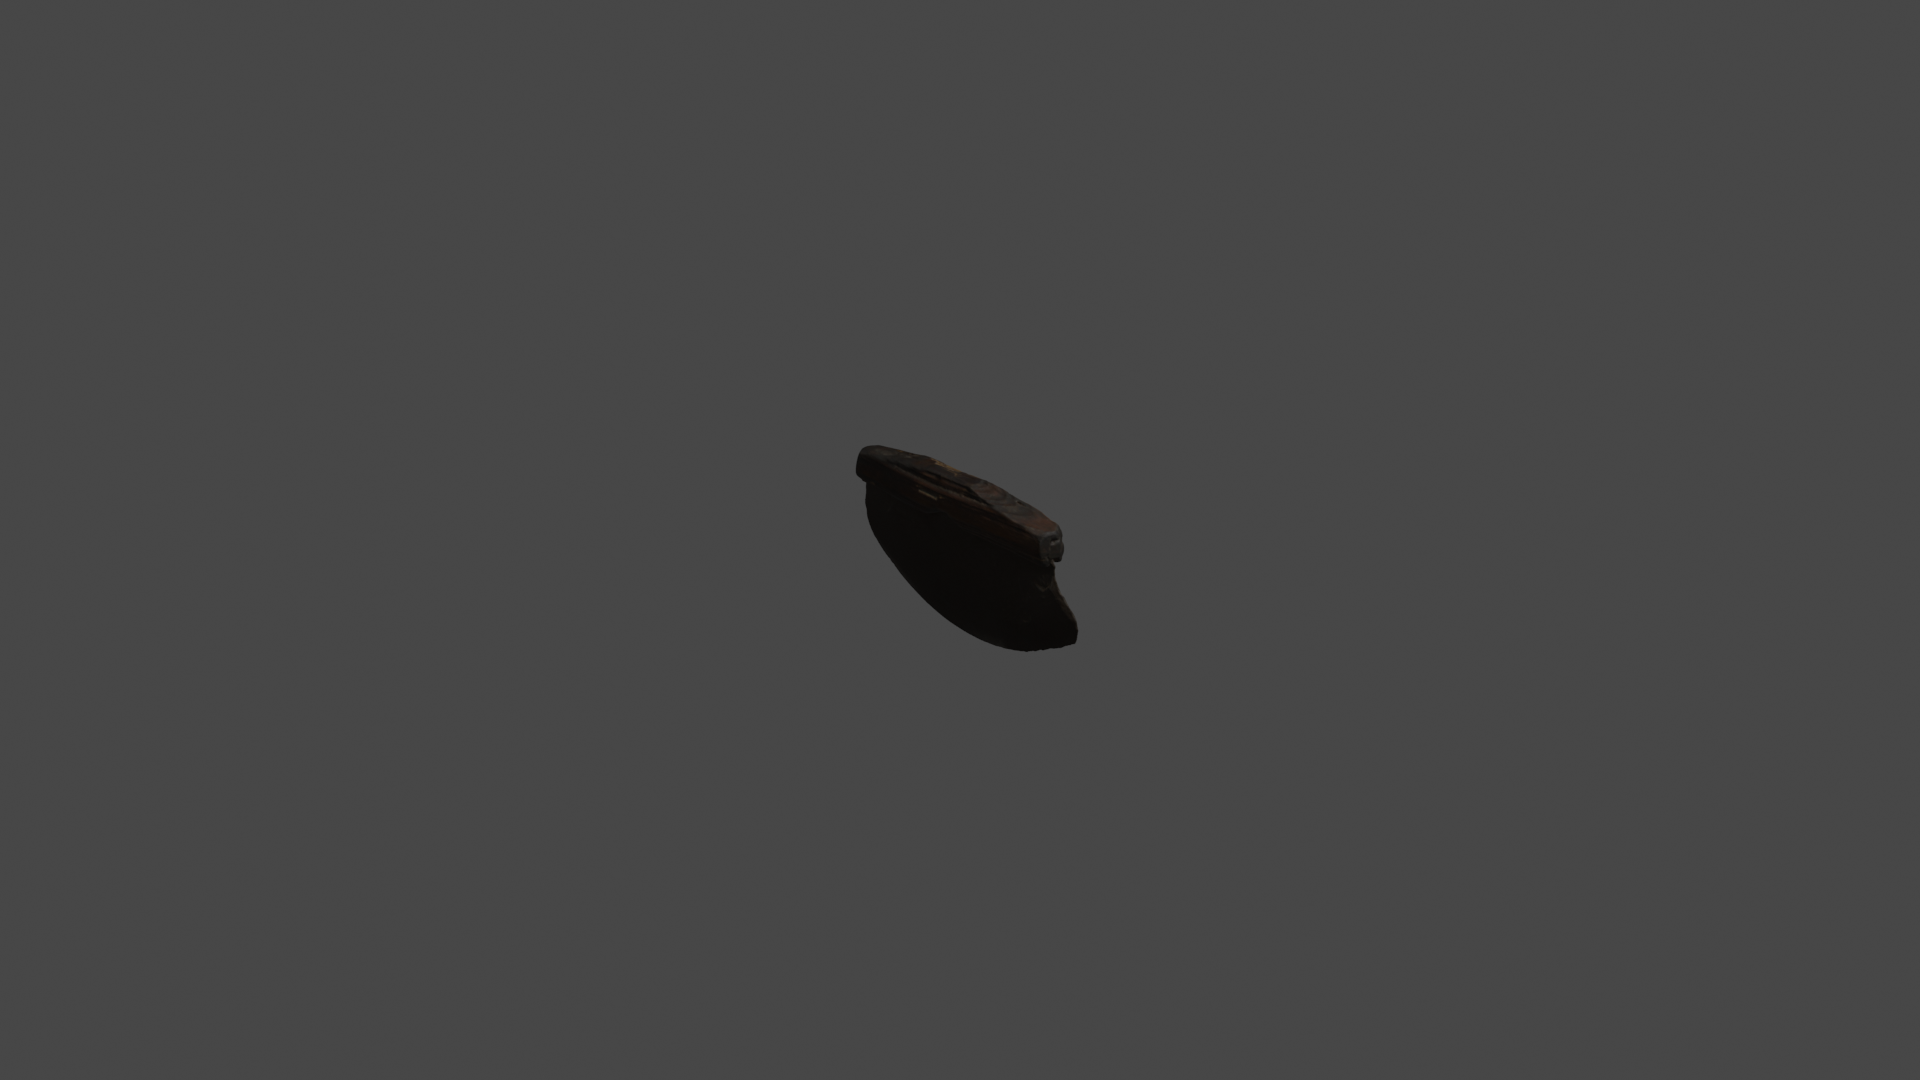
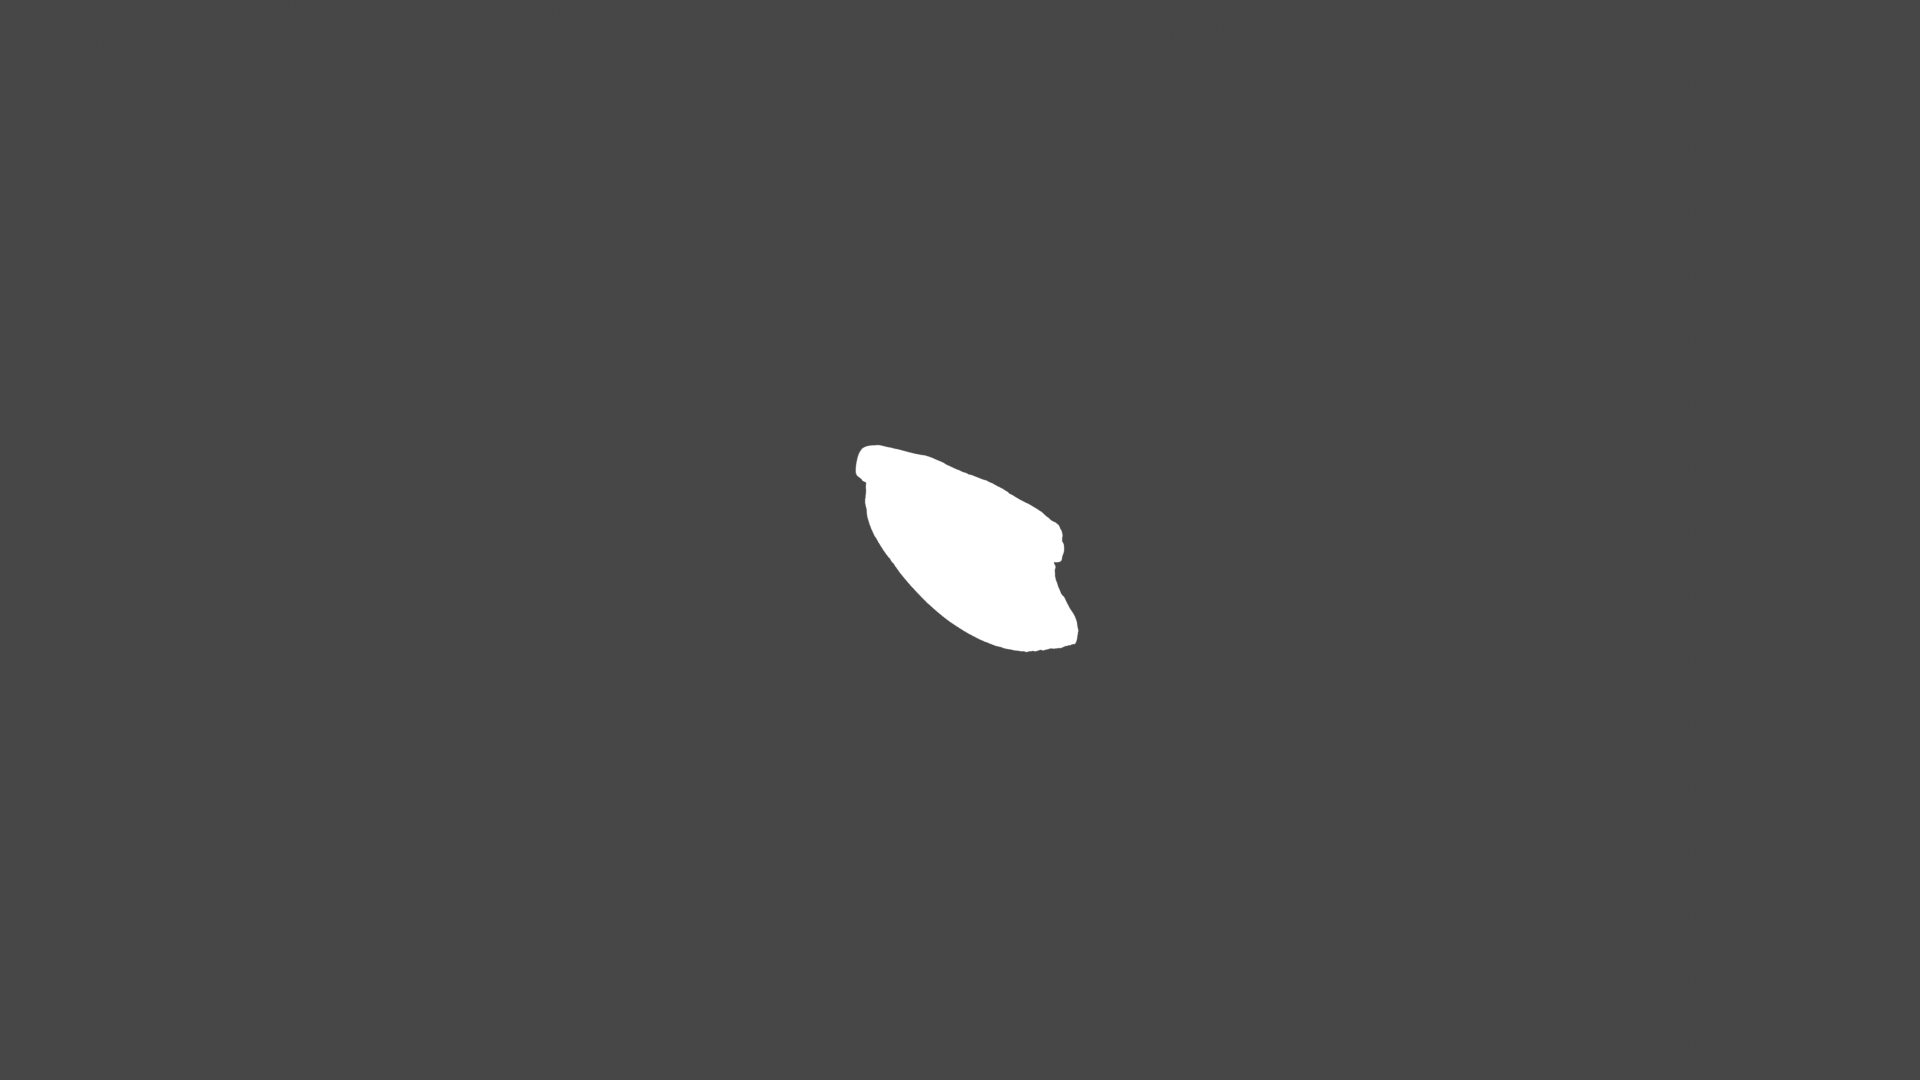
edited blender.py

Changed region(s): [[0.4375, 0.3972, 0.5625, 0.6111]]

diff --git a/blender.py b/blender.py
@@ -44,9 +44,8 @@ bpy.ops.transform.resize(
 )
 
 
-# Deselect all objects
+# Deselect all objects & Delete the cube that is autogenerated in Blender
 bpy.ops.object.select_all(action="DESELECT")
-# Delete the cube that is autogenerated by Blender
 bpy.data.objects["Cube"].select_set(True)
 bpy.ops.object.delete(use_global=False, confirm=False)
 
@@ -54,6 +53,12 @@ bpy.ops.object.delete(use_global=False, confirm=False)
 print(list(bpy.data.objects)) 
 
 # Renders a .png of the file 
+'''still need to make the colors correct (white background & black mask'''
+
+bpy.data.objects["Uluaq_12147"].select_set(True)
+
+#this line creates a mask of the object
+bpy.context.object.is_holdout=True
 
 bpy.ops.object.select_all(action='SELECT')
 bpy.context.scene.render.filepath = "test.png"
